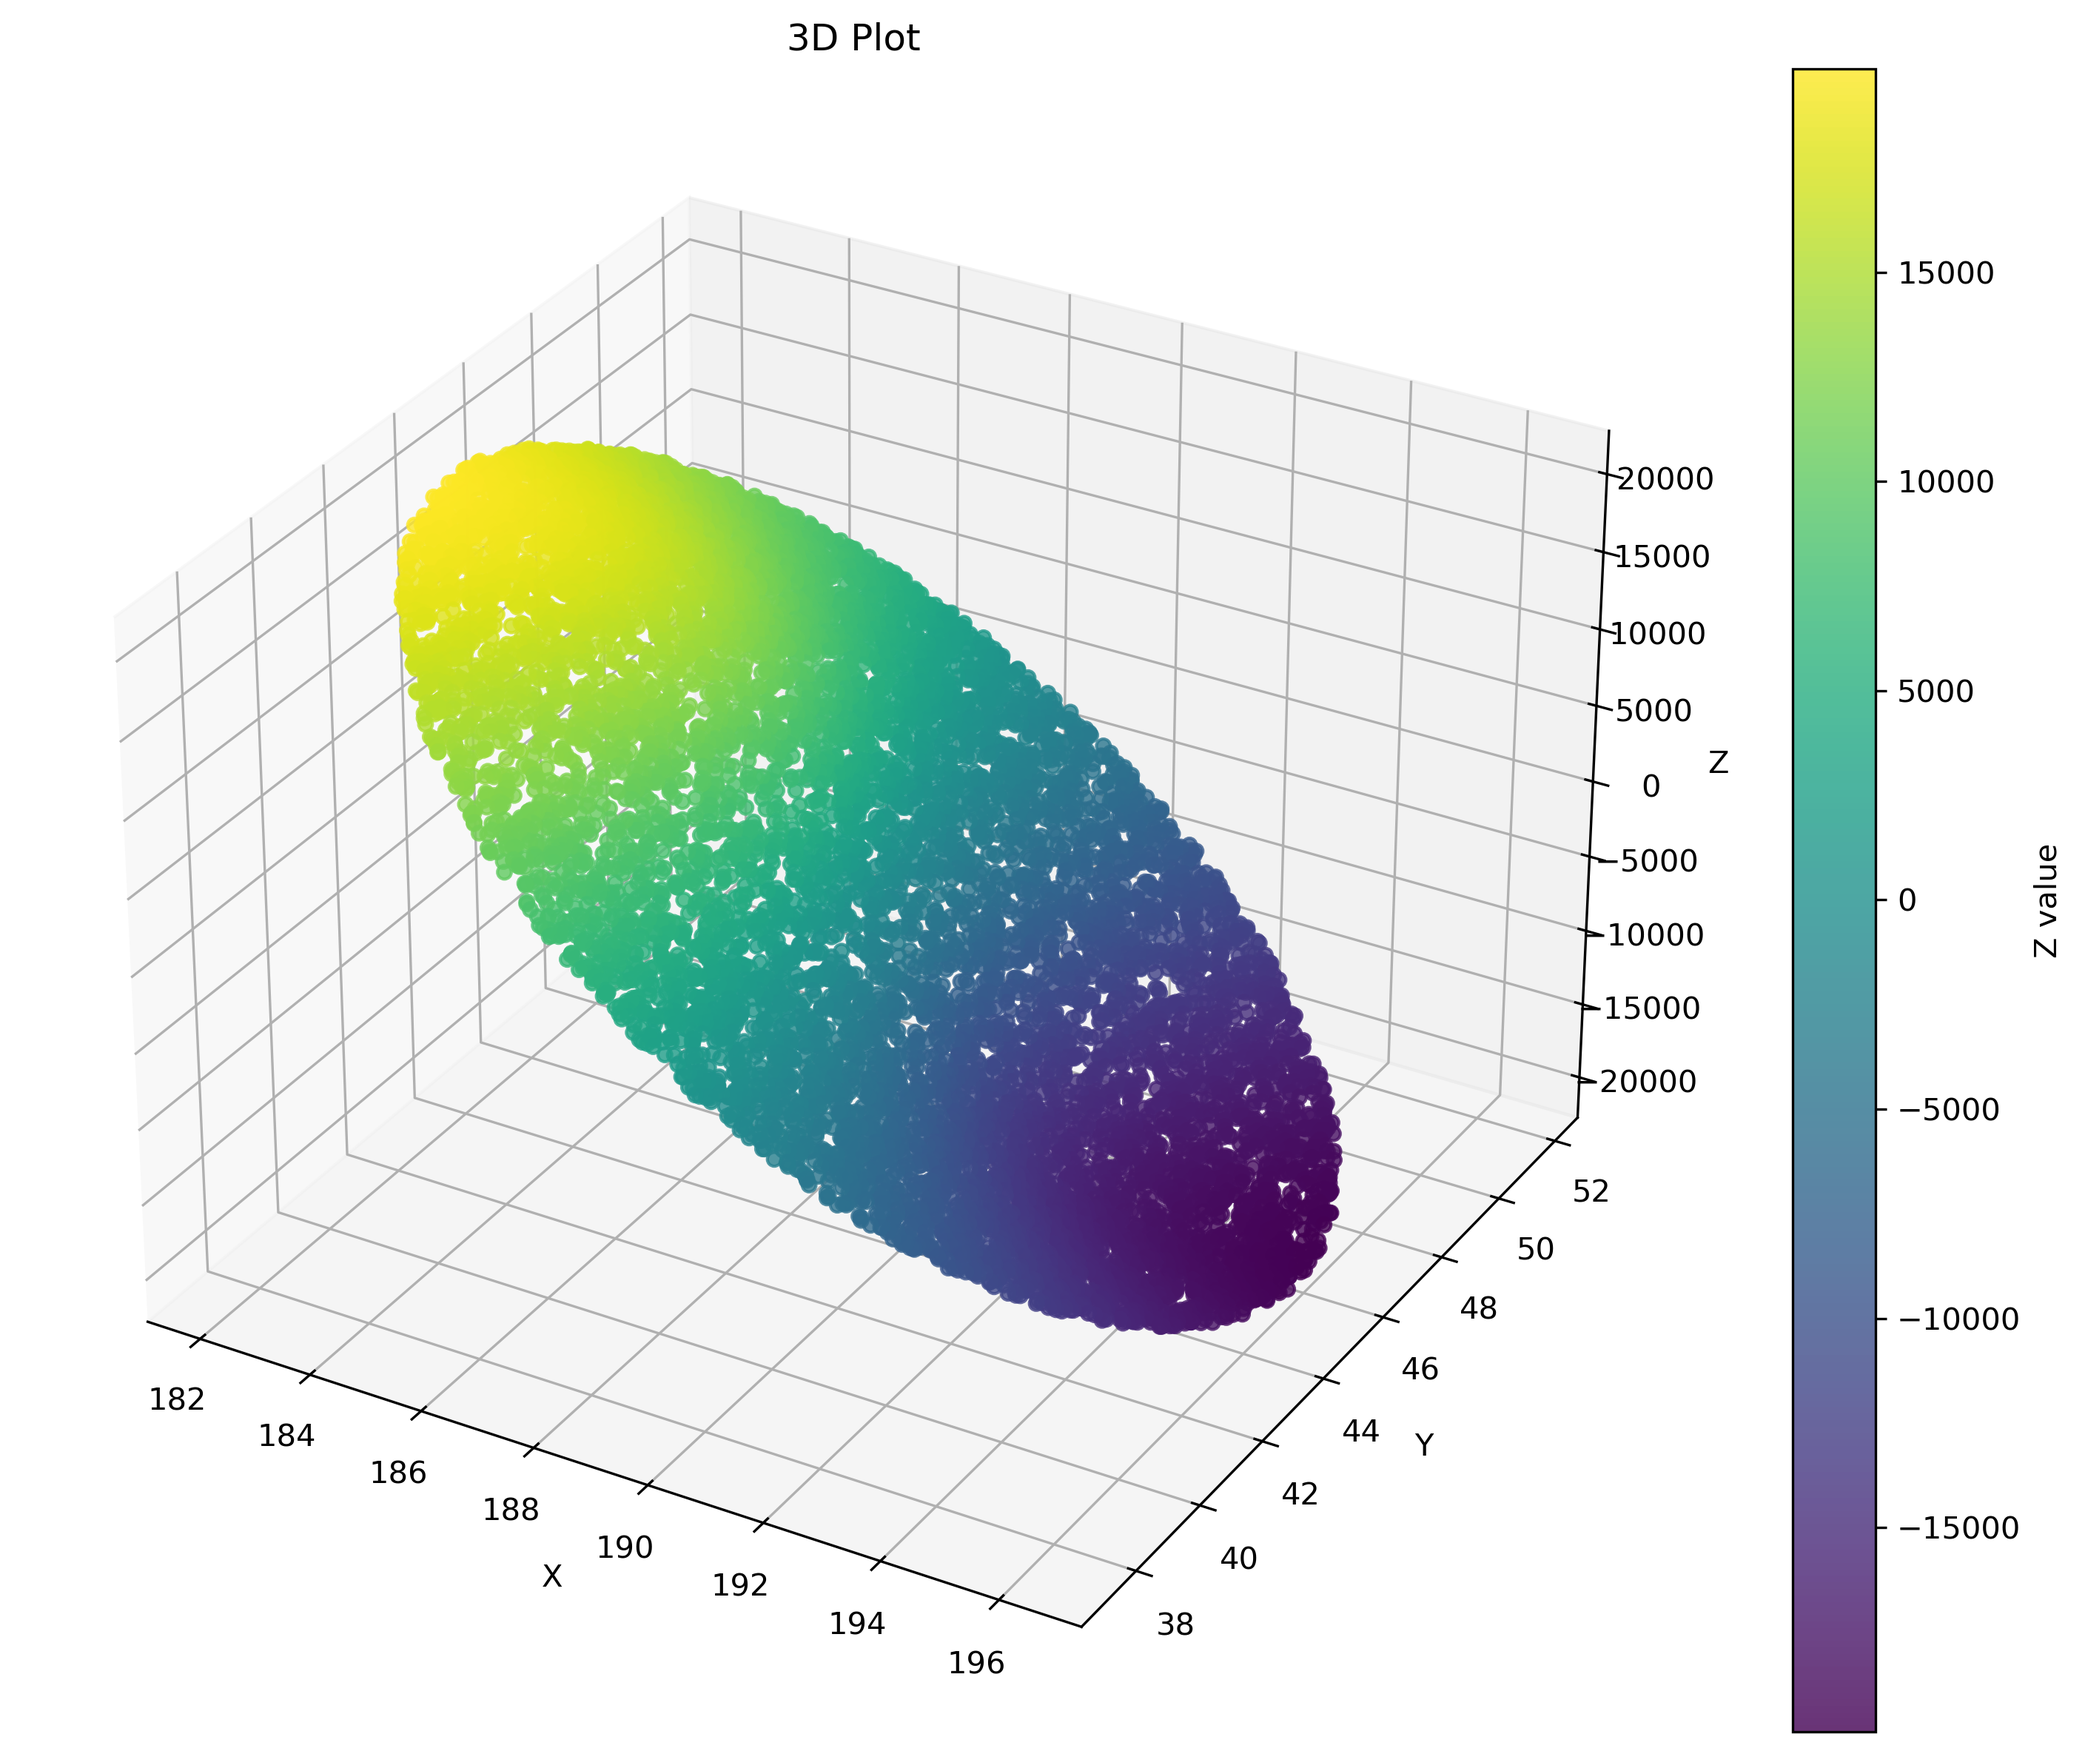
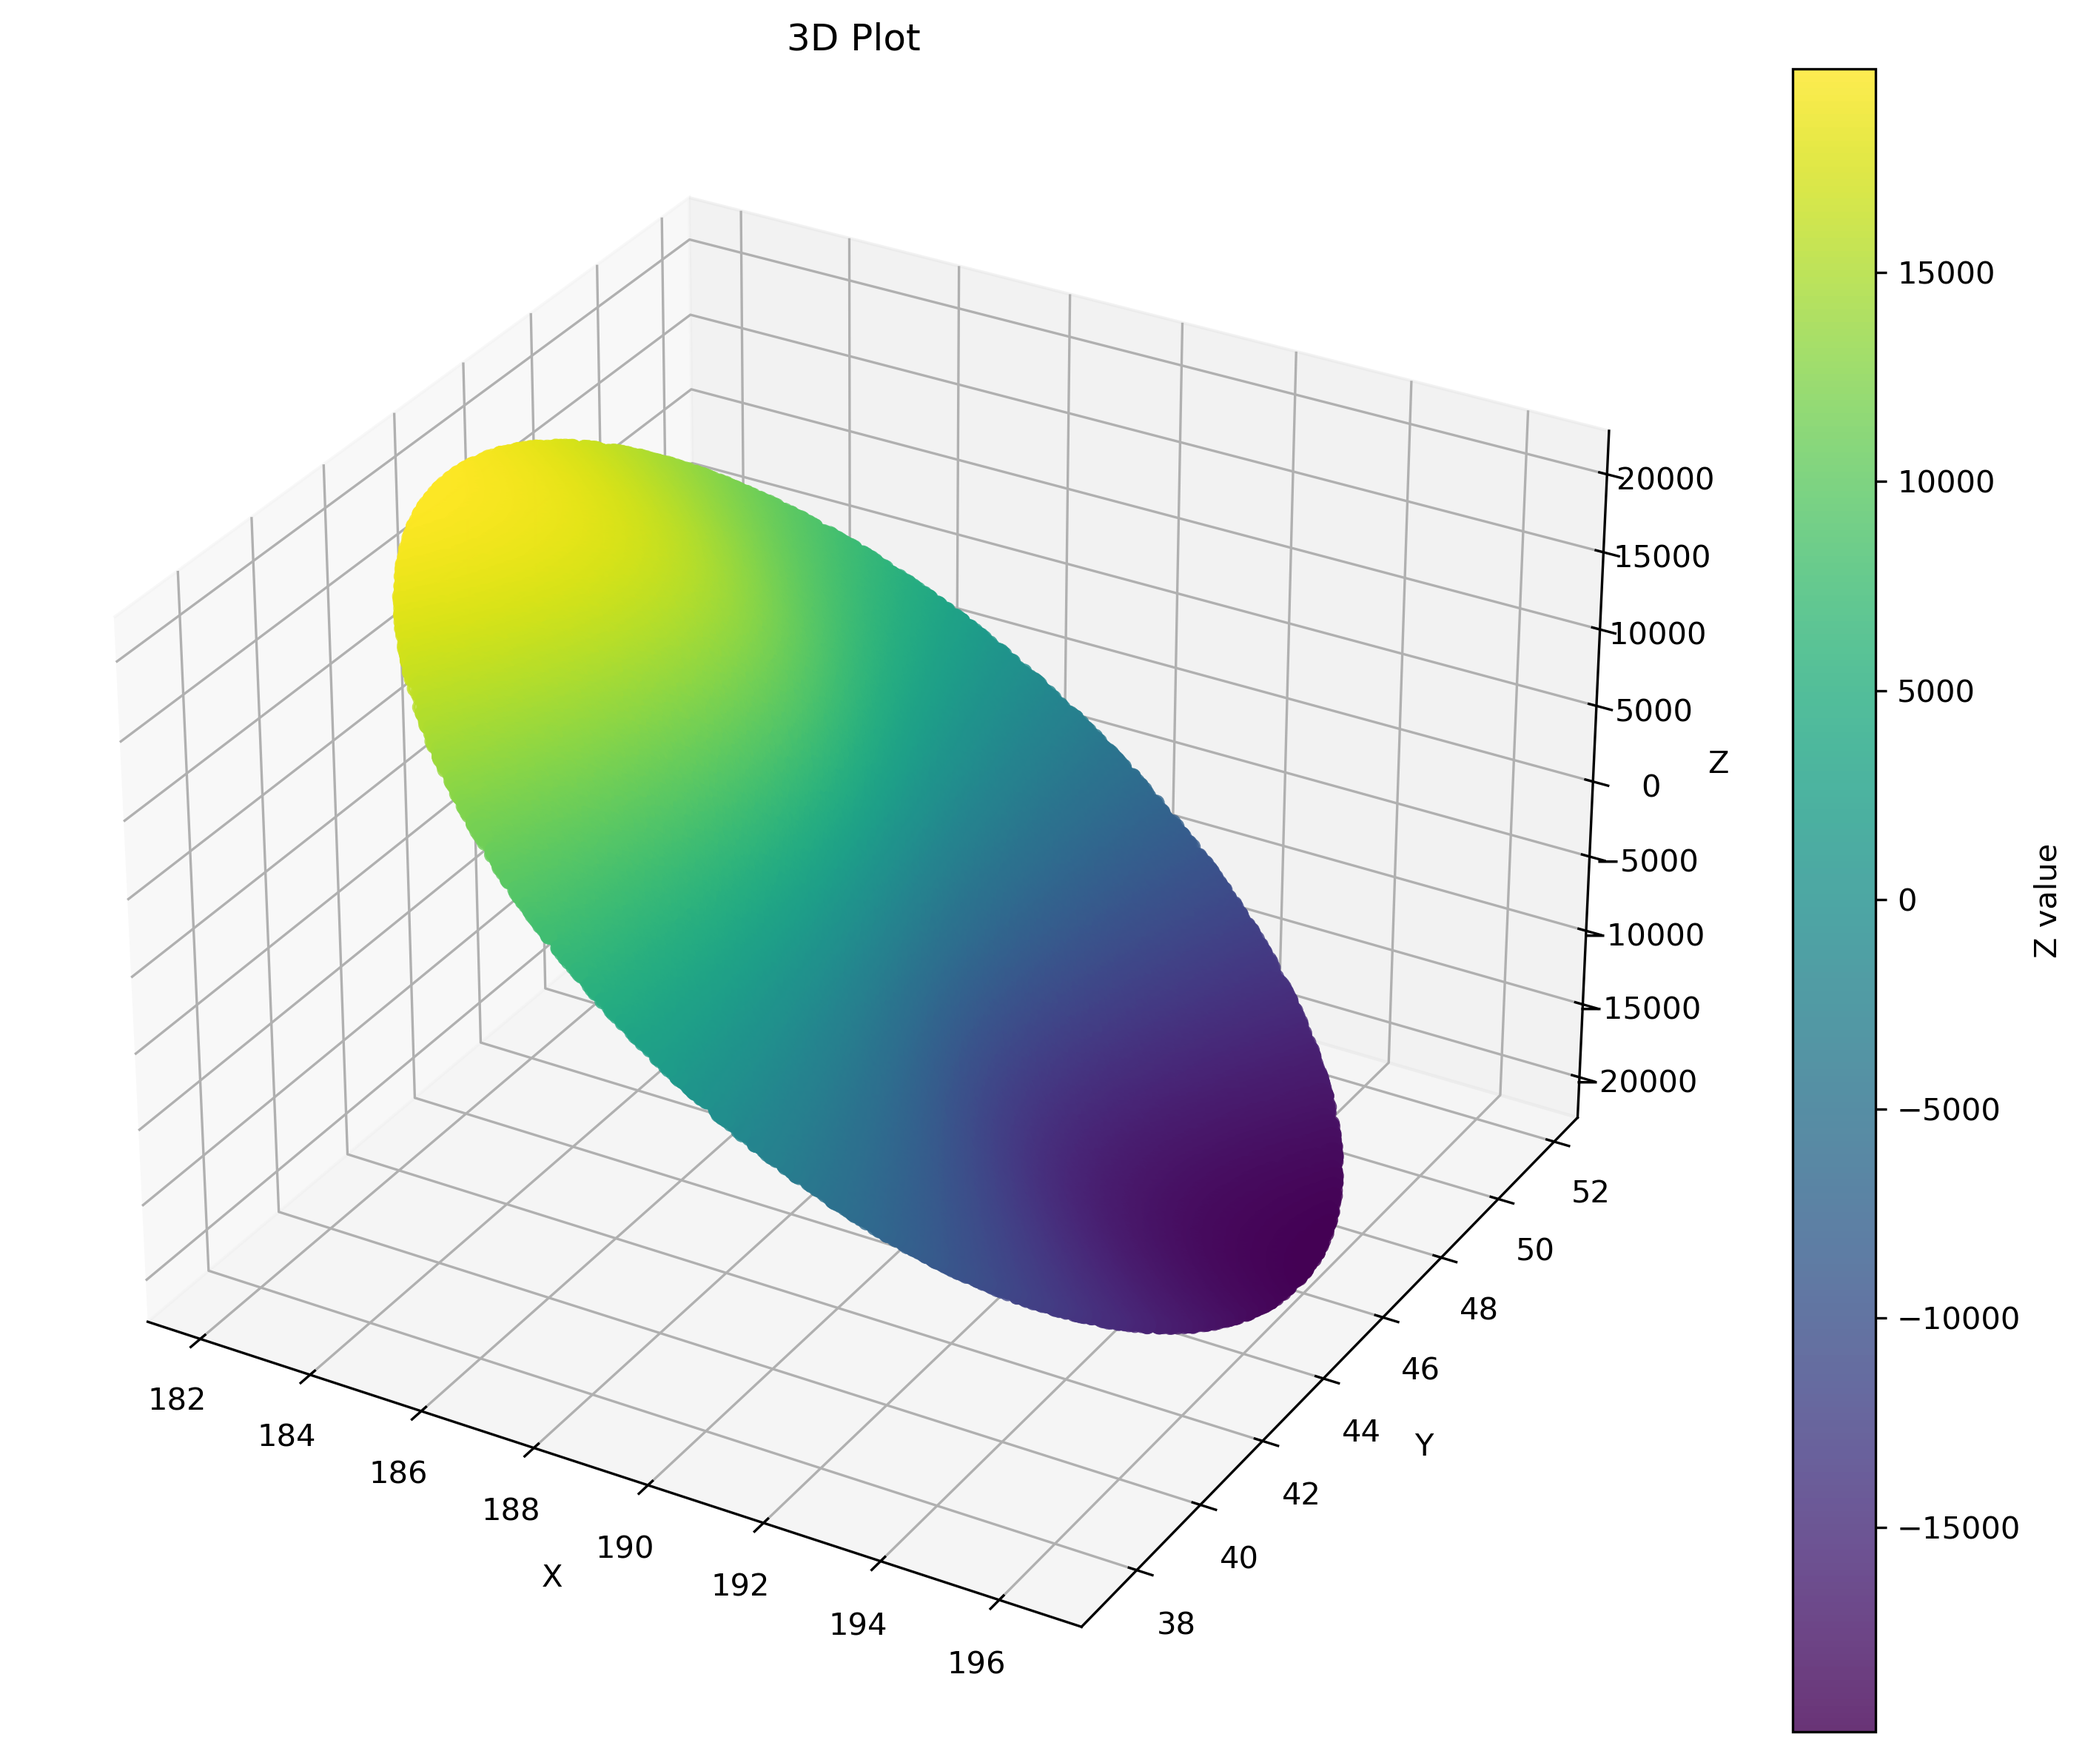
update

diff --git a/src/vision/picture.py b/src/vision/picture.py
@@ -8,6 +8,36 @@ from pathlib import Path
 from scipy.interpolate import griddata
 
 
+def plot_footprint(
+    data: list[tuple[float, float, float]],
+    save_dir: Path,
+    filename: str = "footprint"
+):
+    """将3D图保存到文件，而不是显示"""
+    fig = plt.figure(figsize=(10, 8))
+    ax = fig.add_subplot(111, projection="3d")
+
+    x = [p[0] for p in data]
+    y = [p[1] for p in data]
+    z = [p[2] for p in data]
+
+    scatter = ax.scatter(x, y, z, c=z, cmap="viridis", s=20, alpha=0.8)
+
+    ax.set_xlabel("X")
+    ax.set_ylabel("Y")
+    ax.set_zlabel("Z")
+    ax.set_title("3D Plot")
+
+    plt.colorbar(scatter, ax=ax, label="Z value")
+    plt.tight_layout()
+    
+    # 保存到文件而不是显示
+    plt.savefig(save_dir / filename, dpi=300, bbox_inches="tight")
+    
+    print(f"图形已保存到: {save_dir / filename}")
+    plt.show()
+    plt.close(fig)  # 关闭图形释放内存
+
 def plot_contour_irregular(
     data: list[tuple[float, float, float]],
     saved_dir: Path, # 当前代码未使用

diff --git a/src/main.py b/src/main.py
@@ -13,7 +13,7 @@ data_dir = work_dir / "data"
 if __name__ == "__main__":
     executor = TaskExecutor()
 
-    all_nums = 10000
+    all_nums = 100000
     sub_nums = 100
     task_num = all_nums // sub_nums
 
@@ -61,7 +61,7 @@ if __name__ == "__main__":
             )
             vis_point.append((float(la), float(lo), 0))
     logger.info(f"{len(res)=}")
-    # save_3d_plot_to_file(res, pic_dir)
-    plot_contour_irregular(res, pic_dir)
+    save_3d_plot_to_file(res, pic_dir)
+    # plot_contour_irregular(res, pic_dir)
 
     

diff --git a/.github/agents/test.agent.md b/.github/agents/test.agent.md
@@ -1,0 +1,5 @@
+---
+description: 'Describe what this custom agent does and when to use it.'
+tools: []
+---
+Define what this custom agent accomplishes for the user, when to use it, and the edges it won't cross. Specify its ideal inputs/outputs, the tools it may call, and how it reports progress or asks for help.
